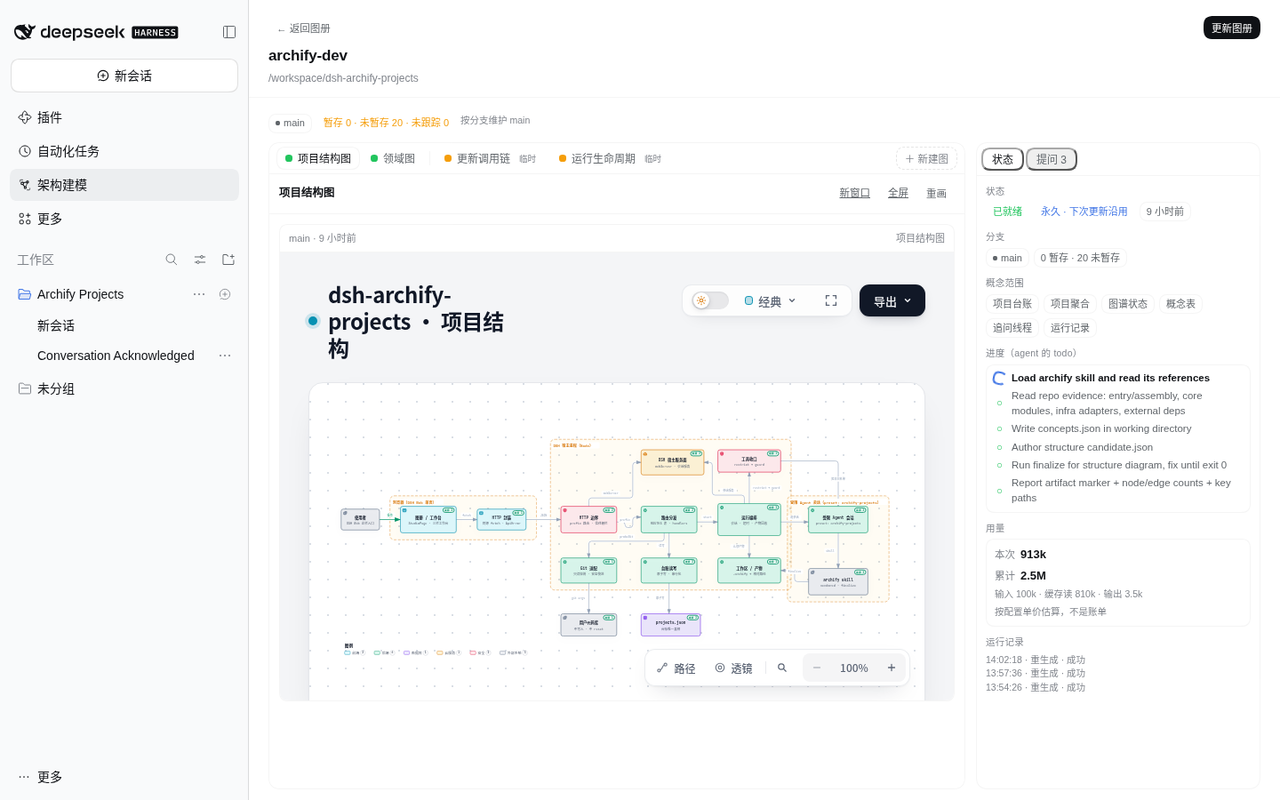
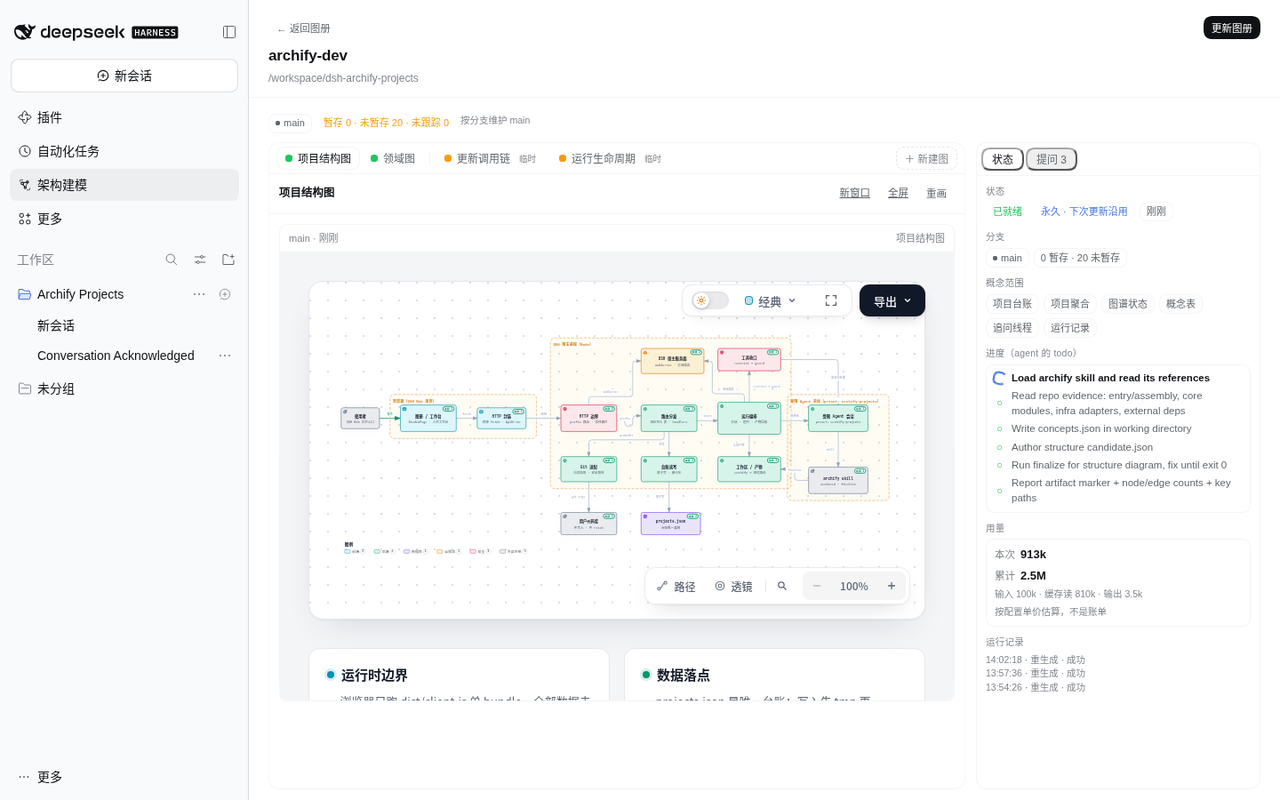
feat: 内嵌查看器隐藏成品自带的大标题与状态点
archify 成品顶部有一行「项目名 · 图名」大字 + pulse-dot，和插件自己的
查看器标题栏、帧头信息重复，白吃画布高度。onLoad 时往同源 iframe 注入
.header{display:none}，只在嵌入视图生效；新窗口打开仍是成品原样。

同步刷新 README 的工作台截图。

diff --git a/src/client/page.tsx b/src/client/page.tsx
@@ -689,6 +689,7 @@ function Workbench({
                   title={diagram.title}
                   src={ROUTES.artifact(diagram.htmlPath)}
                   sandbox="allow-scripts allow-same-origin"
+                  onLoad={(event) => hideArtifactHeader(event.currentTarget)}
                 />
               </div>
             ) : (
@@ -982,6 +983,28 @@ export function ThumbStrip({
       </button>
     </div>
   )
+}
+
+/**
+ * 内嵌查看器里去掉成品自带的页头（大标题 + 状态圆点）。
+ *
+ * 成品 HTML 顶部有一行「<项目名> · 图名」的大标题和一个 pulse-dot，而插件自己的
+ * 查看器标题栏已经写了图名、帧头也写了分支与时间——重复一遍只是白吃画布高度。
+ * 只在 iframe 里注入，点「新窗口」单独打开时仍是成品原样（那里没有外层标题）。
+ * 同源才改得动；被沙箱或跨域挡住就静默跳过，不影响看图。
+ */
+export function hideArtifactHeader(frame: HTMLIFrameElement): void {
+  try {
+    const doc = frame.contentDocument
+    if (doc === null) return
+    if (doc.head.querySelector('style[data-embedded="compact"]') !== null) return
+    const style = doc.createElement('style')
+    style.dataset.embedded = 'compact'
+    style.textContent = '.header{display:none!important}'
+    doc.head.appendChild(style)
+  } catch {
+    // 跨域或沙箱拦截：保留成品原样
+  }
 }
 
 /**

diff --git a/docs/HANDOVER.md b/docs/HANDOVER.md
@@ -389,3 +389,9 @@ cacheWriteTokens`）写 `RunRecord.usage`、`QaEntry.usage`，并累加 `Project
 不再有额外 iframe），「新建图」是条尾的虚线按钮。
 查看器宽度从 ≈566px 增到 784px（1440 窗口）。组件测试里断言了「没有 `.dap-rail__group`」，
 别把左栏加回来。
+
+**内嵌查看器隐藏成品页头**：archify 成品 HTML 顶部有一行
+`<项目名> · <图名>` 大字 + `pulse-dot`，而插件自己的查看器标题栏和帧头已经写了图名、
+分支与时间。`page.tsx` 的 `hideArtifactHeader()` 在 iframe `onLoad` 时往同源文档 head
+注入一条 `.header{display:none!important}`，只影响嵌入视图；点「新窗口」仍是成品原样。
+同源被沙箱挡住就静默跳过，不影响看图。
